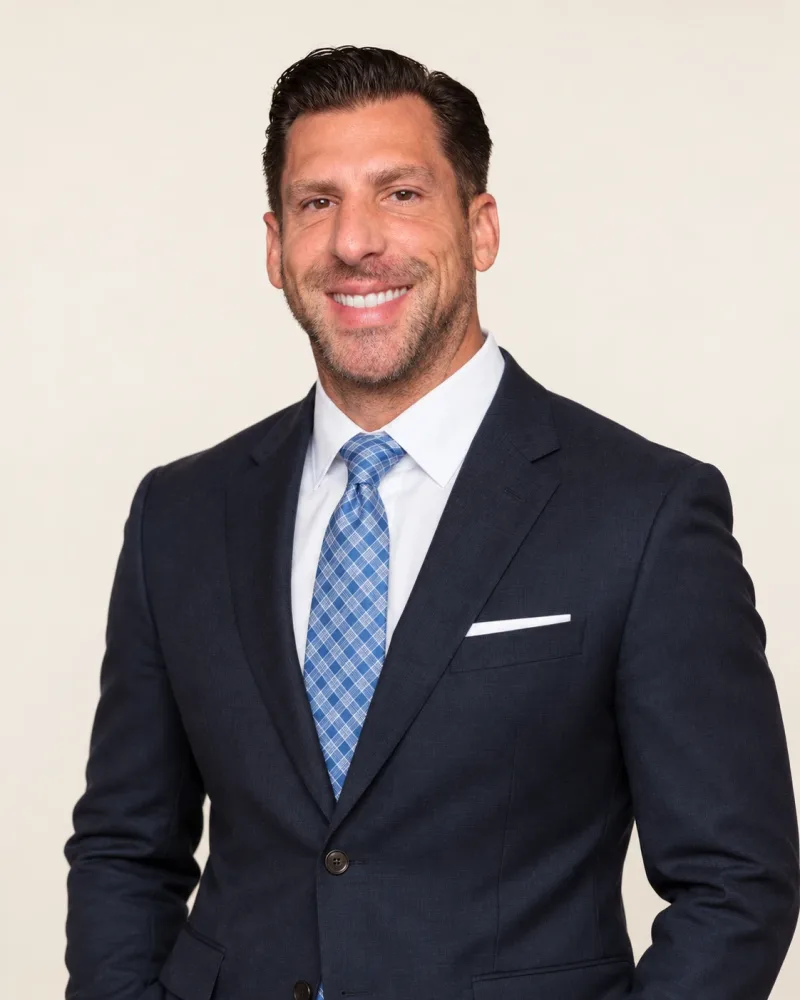
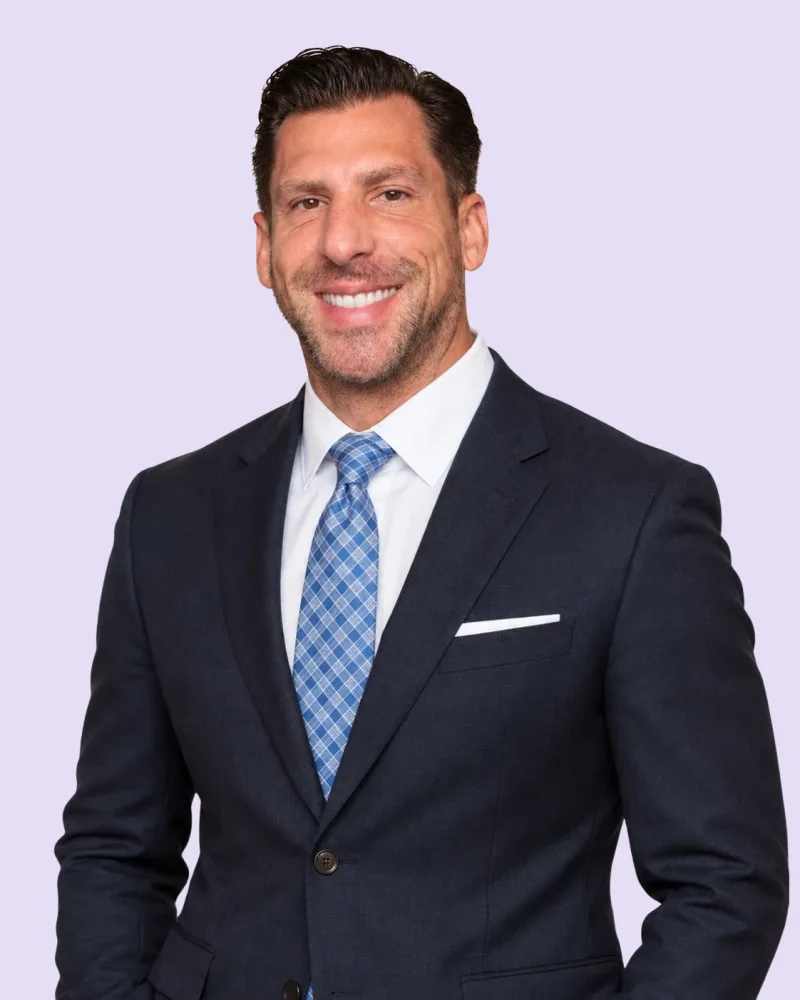
Hero stairs photo unobstructed, Noah on lavender, couple photo in learn, routes stacked 1/2 beside 3

diff --git a/index.html b/index.html
@@ -77,16 +77,18 @@
   .sticky-mobile-label{display:none}
   
   .hero{position:relative;background:var(--hero-navy);color:#fff;overflow:hidden;isolation:isolate}
-  .hero-photo{position:absolute;top:0;bottom:0;right:0;width:62%;z-index:-3;background-image:var(--hero-photo);background-size:cover;background-position:center 30%;opacity:.75;-webkit-mask-image:linear-gradient(90deg,transparent 0%,#000 45%);mask-image:linear-gradient(90deg,transparent 0%,#000 45%)}
+  .hero-photo{position:absolute;top:0;bottom:0;right:0;width:56%;z-index:-3;background-image:var(--hero-photo);background-size:cover;background-position:42% center;opacity:.95;-webkit-mask-image:linear-gradient(90deg,transparent 0%,#000 32%);mask-image:linear-gradient(90deg,transparent 0%,#000 32%)}
+  .hero-photo-inline{display:none}
   .hero::before{content:"";position:absolute;inset:0;z-index:-2;background:
-      linear-gradient(to top,#021e3c 0%,rgba(2,30,60,.55) 45%,rgba(2,30,60,.25) 100%),
-      linear-gradient(to right,rgba(2,30,60,.85) 0%,rgba(26,31,48,.35) 55%,transparent 100%),
+      linear-gradient(to top,#021e3c 0%,rgba(2,30,60,.35) 30%,transparent 60%),
+      linear-gradient(to right,rgba(2,30,60,.95) 0%,rgba(2,30,60,.75) 40%,rgba(2,30,60,.1) 70%,transparent 100%),
       radial-gradient(50% 60% at 85% 15%,rgba(103,98,175,.35),transparent 65%)}
   .hero::after{content:"";position:absolute;inset:0;z-index:-1;pointer-events:none;background-image:var(--grid-lines);background-size:64px 64px;opacity:.3}
   .hero-noise{position:absolute;inset:0;z-index:-1;pointer-events:none;background-image:var(--noise);background-size:256px 256px;opacity:.04;mix-blend-mode:overlay}
   .hero-top{padding-top:28px}
   .hero-logo{height:48px;width:auto}
-  .hero-inner{display:grid;grid-template-columns:minmax(0,60fr) minmax(0,40fr);gap:56px;align-items:center;padding:28px 24px 132px}
+  .hero-inner{padding:28px 24px 132px}
+  .hero-copy{max-width:600px}
   .hero h1{color:#fff;font-size:clamp(27px,3.4vw,46px);line-height:1.12;margin-bottom:22px}
   .hero-sub{font-size:19px;font-weight:600;color:#fff;margin-bottom:12px}
   .hero-list{list-style:none;margin:0 0 32px;padding:0;display:grid;gap:12px}
@@ -94,10 +96,10 @@
   .hero-list li::before{content:"";position:absolute;left:4px;top:.6em;width:8px;height:8px;border-radius:50%;background:linear-gradient(135deg,#a9a3f5,#8ea7ff)}
   .logistics{font-size:17px;color:var(--on-dark);margin-bottom:22px}
   .logistics strong{color:#fff;font-weight:600}
-  .presenter-card{justify-self:end;width:100%;max-width:340px;padding:14px;border-radius:32px;background:rgba(255,255,255,.08);border:1px solid rgba(255,255,255,.22);-webkit-backdrop-filter:blur(14px);backdrop-filter:blur(14px);box-shadow:0 30px 60px -30px rgba(0,0,0,.65)}
-  .headshot{aspect-ratio:4/5;border-radius:24px;overflow:hidden;background:#efe9df}
+  .presenter-card{display:grid;grid-template-columns:72px minmax(0,1fr);align-items:center;gap:16px;max-width:380px;margin-top:28px;padding:10px 20px 10px 10px;border-radius:20px;background:rgba(255,255,255,.08);border:1px solid rgba(255,255,255,.22);-webkit-backdrop-filter:blur(14px);backdrop-filter:blur(14px)}
+  .headshot{aspect-ratio:1/1;border-radius:50%;overflow:hidden;background:#e6def5;box-shadow:0 0 0 2px rgba(103,98,175,.55)}
   .headshot img{width:100%;height:100%;object-fit:cover;object-position:center top}
-  .pc-meta{padding:16px 8px 6px}
+  .pc-meta{padding:0}
   .pc-label{font-size:13px;font-weight:600;letter-spacing:.14em;text-transform:uppercase;color:var(--sky);margin-bottom:4px}
   .pc-name{font-size:20px;font-weight:600;color:#fff}
   .pc-title{font-size:16px;color:var(--on-dark)}
@@ -123,7 +125,12 @@
   .routes{background:#fff;position:relative;overflow:hidden;isolation:isolate}
   .routes::before{content:"";position:absolute;left:50%;top:-10%;width:900px;height:500px;transform:translateX(-50%);z-index:-1;background:radial-gradient(closest-side,rgba(241,236,248,.9),transparent)}
   .routes h2{text-align:center;max-width:20em;margin:0 auto 56px}
-  .routes-grid{display:grid;grid-template-columns:repeat(3,minmax(0,1fr));gap:28px}
+  .routes-grid{display:grid;grid-template-columns:minmax(0,1fr) minmax(0,1.1fr);gap:28px;max-width:1040px;margin:0 auto}
+  .route--third{grid-column:2;grid-row:1 / span 2}
+  .route.no-media{justify-content:center}
+  .route.no-media .route-media{display:none}
+  .route.no-media .route-body{margin-top:0;padding-top:32px}
+  .route.no-media .route-num{top:28px;left:auto;right:28px}
   .route{--card:#f4f1fa;position:relative;display:flex;flex-direction:column;background:var(--card);border-radius:var(--radius);overflow:hidden;box-shadow:var(--soft-shadow)}
   .route--third{--card:#e9e2f7;box-shadow:var(--luxe-shadow),0 0 0 1.5px rgba(103,98,175,.22)}
   .route-media{position:relative;height:230px;background:linear-gradient(135deg,#e6def5 0%,#dce7fb 100%)}
@@ -232,11 +239,13 @@
   .footer .disclaimer{max-width:920px}
   
   @media (max-width:960px){
-    .hero-inner{grid-template-columns:minmax(0,1fr);gap:36px;padding-bottom:124px}
-    .presenter-card{justify-self:start;max-width:440px;display:grid;grid-template-columns:96px minmax(0,1fr);align-items:center;gap:16px;padding:12px}
-    .presenter-card .headshot{aspect-ratio:1/1;border-radius:50%;box-shadow:0 0 0 2px rgba(103,98,175,.55)}
-    .pc-meta{padding:0}
+    .hero-inner{padding-bottom:124px}
+    .hero-copy{max-width:none}
+    .hero-photo{display:none}
+    .hero-photo-inline{display:block;margin-top:28px;aspect-ratio:4/3;border-radius:24px;overflow:hidden;box-shadow:0 30px 60px -30px rgba(0,0,0,.7)}
+    .hero-photo-inline img{width:100%;height:100%;object-fit:cover;object-position:45% 35%}
     .routes-grid{grid-template-columns:minmax(0,1fr);max-width:560px;margin:0 auto}
+    .route--third{grid-column:auto;grid-row:auto}
     .proof-grid{grid-template-columns:minmax(0,1fr)}
     .learn-grid,.faq-grid{grid-template-columns:minmax(0,1fr);gap:32px}
     .learn-media{aspect-ratio:16/10;margin-top:24px}
@@ -253,7 +262,6 @@
     .sticky-text{display:none}
     .sticky-mobile-label{display:block;font-size:14px;line-height:1.3;color:var(--on-dark);text-align:center}
     .sticky .btn{width:100%;min-height:52px}
-    .hero-photo{width:100%;opacity:.35;-webkit-mask-image:linear-gradient(180deg,#000 0%,transparent 75%);mask-image:linear-gradient(180deg,#000 0%,transparent 75%)}
     .hero-top{padding-top:16px}
     .hero-logo{height:36px}
     .hero-inner{padding:20px 16px 112px;gap:28px}
@@ -265,7 +273,8 @@
     .hero-list li::before{left:2px;top:.55em;width:7px;height:7px}
     .logistics{font-size:16px;margin-bottom:18px}
     .hero .btn,.learn .btn,.final .btn{width:100%}
-    .presenter-card{max-width:none;grid-template-columns:76px minmax(0,1fr);padding:10px 14px 10px 10px;border-radius:20px}
+    .presenter-card{max-width:none;grid-template-columns:64px minmax(0,1fr);padding:10px 14px 10px 10px;margin-top:16px}
+    .hero-photo-inline{margin-top:24px;border-radius:20px}
     .pc-label{font-size:12px}
     .pc-name{font-size:18px}
     .pc-title{font-size:15px}
@@ -289,6 +298,8 @@
     .routes-grid{gap:16px}
     .route-media{height:190px}
     .route-body{padding:0 22px 28px}
+    .route.no-media .route-body{padding-top:26px}
+    .route.no-media .route-num{top:22px;right:22px}
     .route-icon{width:46px;height:46px;margin-bottom:16px}
     .route h3{font-size:22px;margin-bottom:10px}
     .learn-list li{padding:18px 0;font-size:17px}
@@ -346,20 +357,16 @@
       </ul>
       <p class="logistics"><strong><span data-when>Date and time to be announced</span>.</strong> About an hour, with time for questions.</p>
       <a class="btn btn--light" id="heroCta" href="#register"><span class="shine" aria-hidden="true"></span><span>Save my free seat</span> <svg viewBox="0 0 20 20" aria-hidden="true"><path d="M4 10h11m-4-4 4 4-4 4" fill="none" stroke="currentColor" stroke-width="1.8" stroke-linecap="round" stroke-linejoin="round"/></svg></a>
+      <div class="hero-photo-inline"><img src="assets/hero-stairs-mobile.webp" alt="" width="900" height="675" loading="lazy" decoding="async"></div>
+      <aside class="presenter-card" aria-label="Presenter">
+        <div class="headshot"><img src="assets/noah-nelson-square.webp" alt="Noah Nelson" width="400" height="400"></div>
+        <div class="pc-meta">
+          <p class="pc-label">Your presenter</p>
+          <p class="pc-name">Noah Nelson</p>
+          <p class="pc-title">Chief Education Officer</p>
+        </div>
+      </aside>
     </div>
-    <aside class="presenter-card" aria-label="Presenter">
-      <div class="headshot">
-        <picture>
-          <source media="(min-width: 961px)" srcset="assets/noah-nelson-portrait.webp" width="800" height="1000">
-          <img src="assets/noah-nelson-square.webp" alt="Noah Nelson" width="400" height="400" fetchpriority="high">
-        </picture>
-      </div>
-      <div class="pc-meta">
-        <p class="pc-label">Your presenter</p>
-        <p class="pc-name">Noah Nelson</p>
-        <p class="pc-title">Chief Education Officer</p>
-      </div>
-    </aside>
   </div>
 </header>
 <main>
@@ -389,7 +396,8 @@
     <h2>Two Routes You Know. This Webinar Is About <span class="grad-text">the Third.</span></h2>
     <div class="routes-grid">
       <article class="route">
-        <div class="route-media" data-image-slot="routeManaging"><span class="route-num">1</span></div>
+        <span class="route-num">1</span>
+        <div class="route-media" data-image-slot="routeManaging"></div>
         <div class="route-body">
           <span class="route-icon" aria-hidden="true"><svg viewBox="0 0 24 24" fill="none" stroke="currentColor" stroke-width="1.8" stroke-linecap="round" stroke-linejoin="round"><path d="m10.5 20.5 10-10a4.95 4.95 0 1 0-7-7l-10 10a4.95 4.95 0 1 0 7 7Z"/><path d="m8.5 8.5 7 7"/></svg></span>
           <h3>Managing it.</h3>
@@ -397,7 +405,8 @@
         </div>
       </article>
       <article class="route">
-        <div class="route-media" data-image-slot="routeReplacing"><span class="route-num">2</span></div>
+        <span class="route-num">2</span>
+        <div class="route-media" data-image-slot="routeReplacing"></div>
         <div class="route-body">
           <span class="route-icon" aria-hidden="true"><svg viewBox="0 0 24 24" fill="none" stroke="currentColor" stroke-width="1.8" stroke-linecap="round" stroke-linejoin="round"><path d="M12 6v4"/><path d="M14 14h-4"/><path d="M14 18h-4"/><path d="M14 8h-4"/><path d="M18 12h2a2 2 0 0 1 2 2v6a2 2 0 0 1-2 2H4a2 2 0 0 1-2-2v-9a2 2 0 0 1 2-2h2"/><path d="M18 22V4a2 2 0 0 0-2-2H8a2 2 0 0 0-2 2v18"/></svg></span>
           <h3>Replacing it.</h3>
@@ -405,7 +414,8 @@
         </div>
       </article>
       <article class="route route--third">
-        <div class="route-media" data-image-slot="routeRegenerative"><span class="route-num">3</span></div>
+        <span class="route-num">3</span>
+        <div class="route-media" data-image-slot="routeRegenerative"></div>
         <div class="route-body">
           <span class="route-icon" aria-hidden="true"><svg viewBox="0 0 24 24" fill="none" stroke="currentColor" stroke-width="1.8" stroke-linecap="round" stroke-linejoin="round"><path d="M3 10.5 12 3l9 7.5"/><path d="M5 9.5V20a1 1 0 0 0 1 1h12a1 1 0 0 0 1-1V9.5"/><path d="M12 17.5s-3.2-1.9-3.2-4a1.8 1.8 0 0 1 3.2-1.1 1.8 1.8 0 0 1 3.2 1.1c0 2.1-3.2 4-3.2 4Z"/></svg></span>
           <h3>Regenerative treatment.</h3>
@@ -573,11 +583,11 @@
       press: false
     },
     images: {
-      hero: 'assets/hero-lifestyle.webp',
+      hero: 'assets/hero-stairs.webp',
       routeManaging: '',
       routeReplacing: '',
       routeRegenerative: 'assets/route-regenerative.webp',
-      learn: '',
+      learn: 'assets/learn-couple.webp',
       finalCta: ''
     },
     recordingLine: '',
@@ -603,13 +613,16 @@
   if (CONFIG.images.finalCta) document.querySelector('.final').style.setProperty('--final-photo', 'url("' + CONFIG.images.finalCta + '")');
   document.querySelectorAll('[data-image-slot]').forEach(function (slot) {
     var src = CONFIG.images[slot.getAttribute('data-image-slot')];
-    if (!src) return;
+    if (!src) {
+      if (slot.classList.contains('route-media')) slot.closest('.route').classList.add('no-media');
+      return;
+    }
     var img = new Image();
     img.src = src;
     img.alt = '';
     img.loading = 'lazy';
     img.decoding = 'async';
-    slot.insertBefore(img, slot.firstChild);
+    slot.appendChild(img);
     slot.hidden = false;
   });
   document.querySelectorAll('[data-recording-line]').forEach(function (el) {
